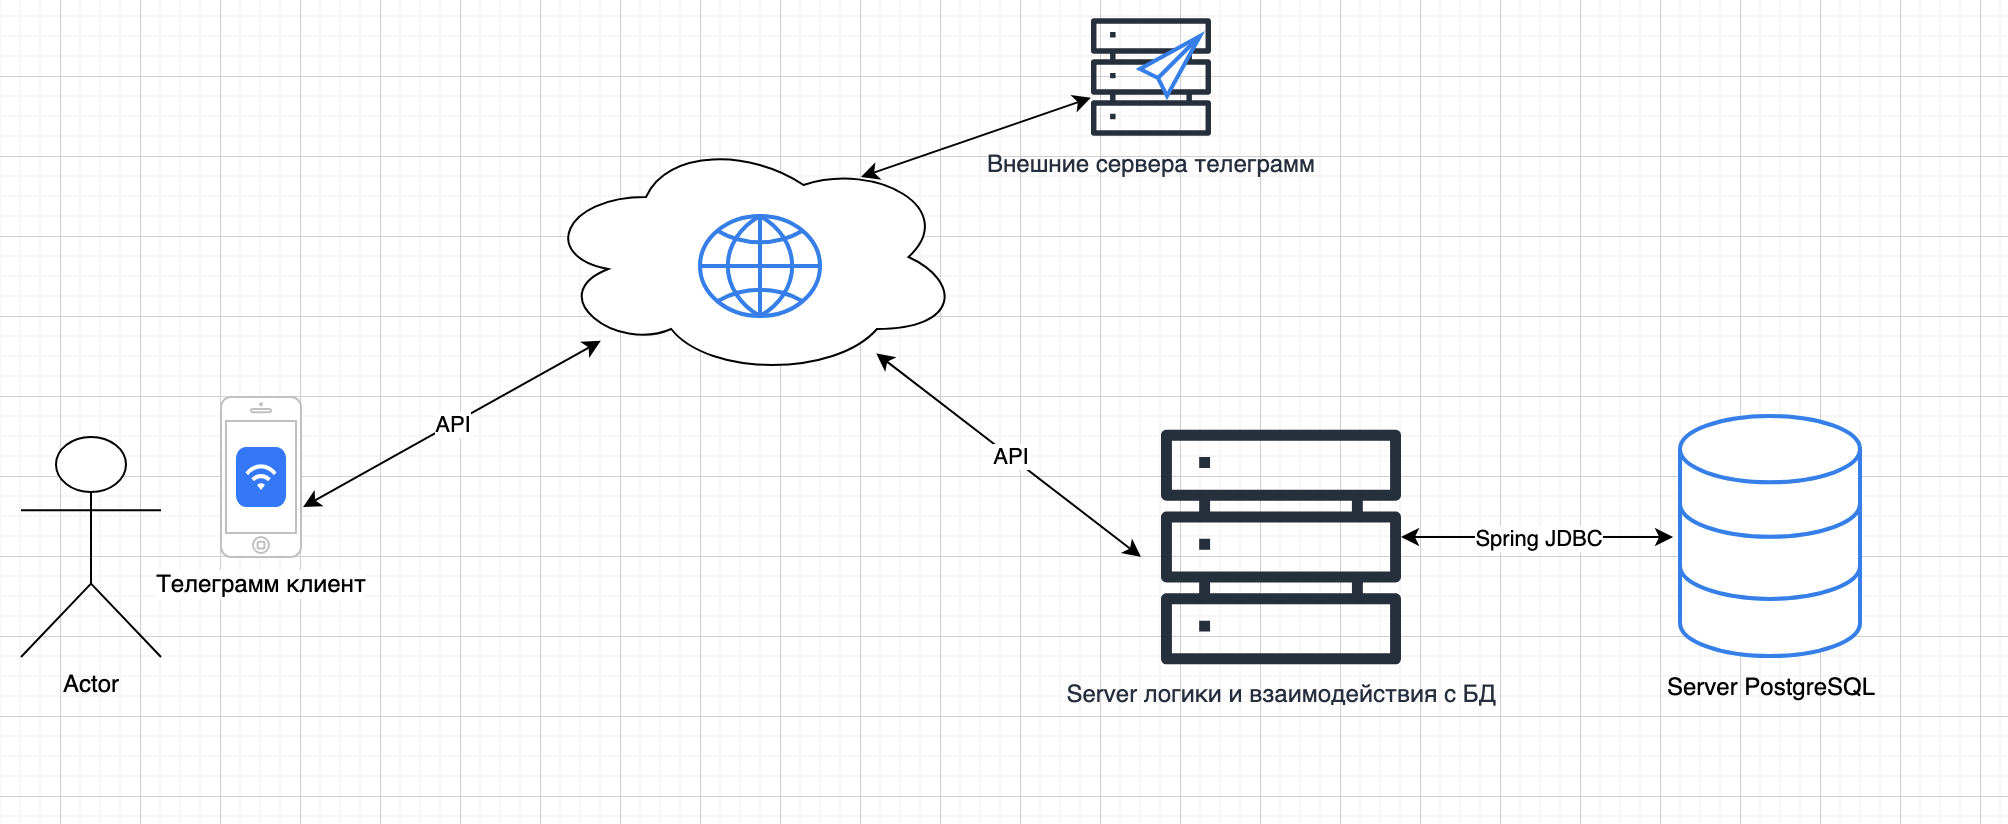
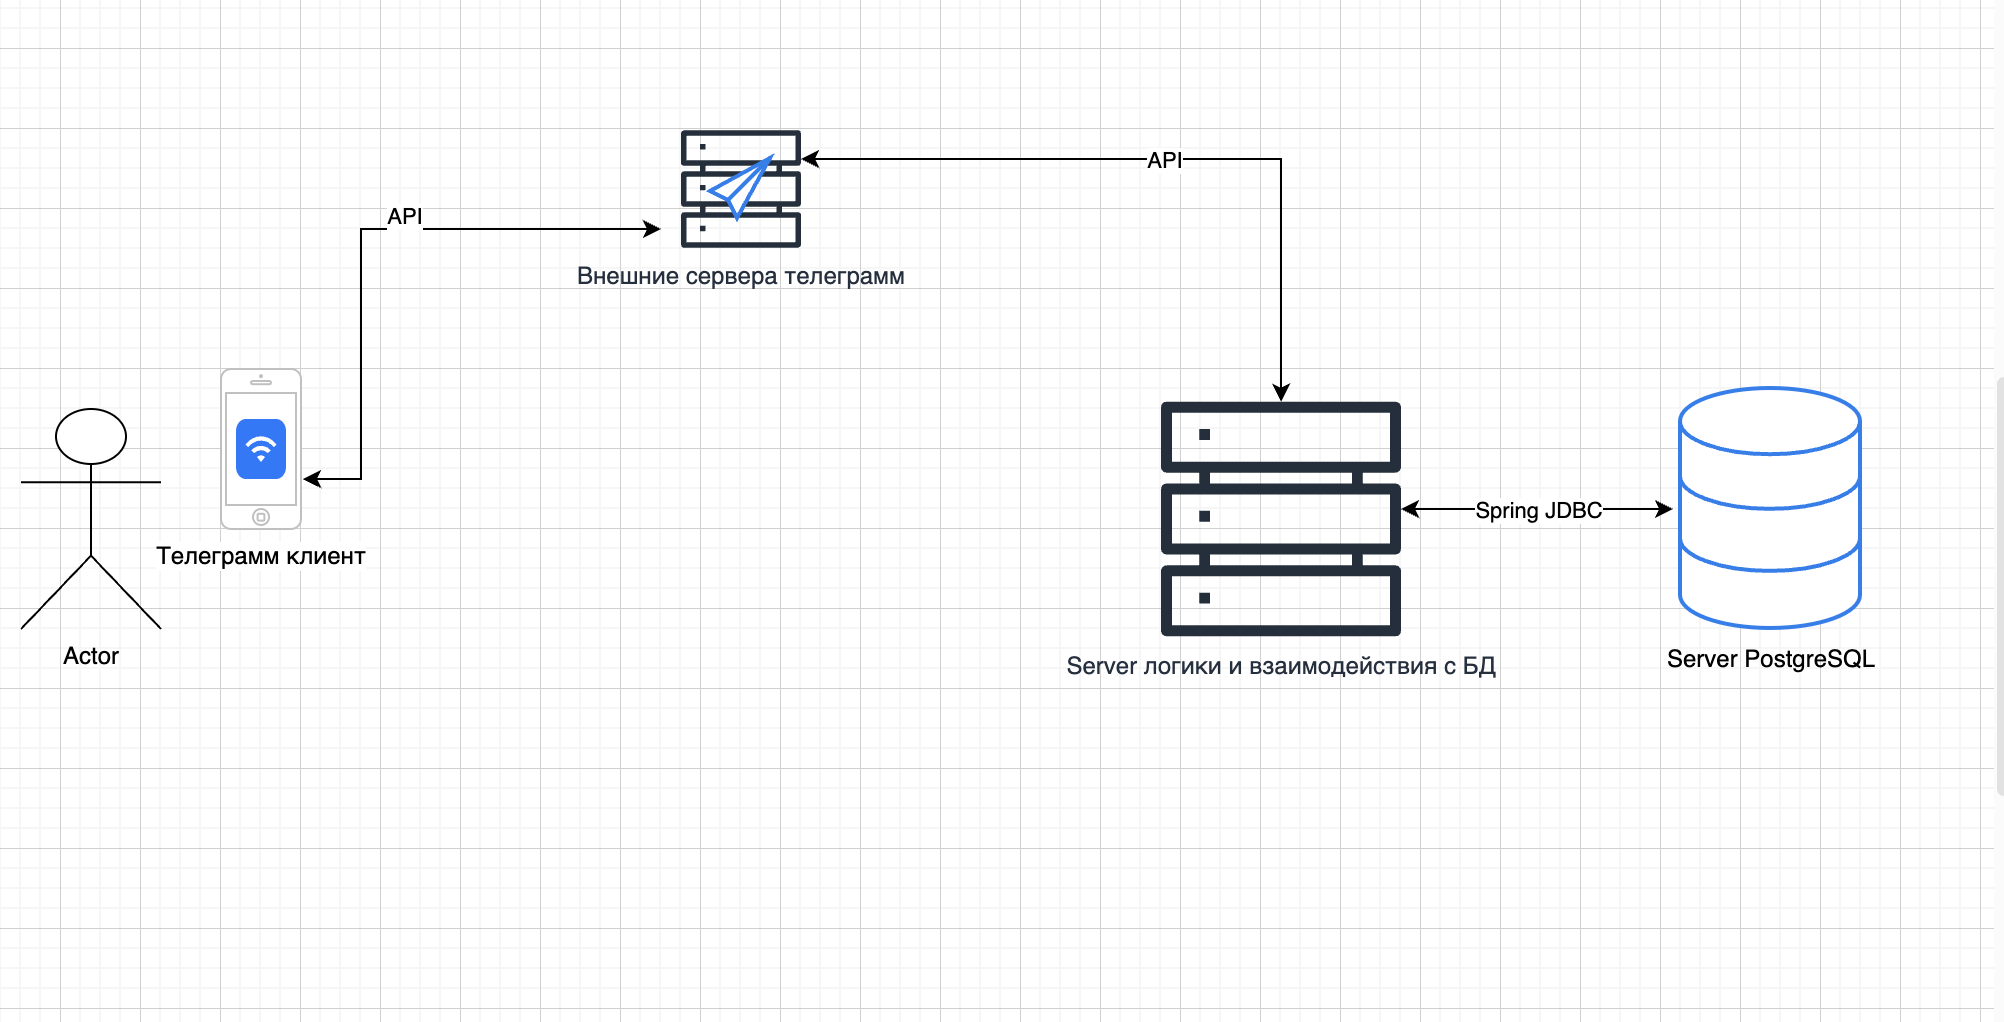
uml

diff --git a/README.md b/README.md
@@ -1,6 +1,6 @@
 # graduation_work
 
-### Тема: Сервер миграции с телеграмм ботом. Запись в салон красоты
+### Тема: Сервер интеграции с сервером телеграмм_ботом. Запись в салон красоты
 
 UserCase: 
 1) Добовление телеграмм бота + первая запись
@@ -21,3 +21,7 @@ UserCase:
 ### Схема:
 
 ![screenshot](img.png)
+
+### UML диаграмма классов 
+
+![screenshot](class.png)
